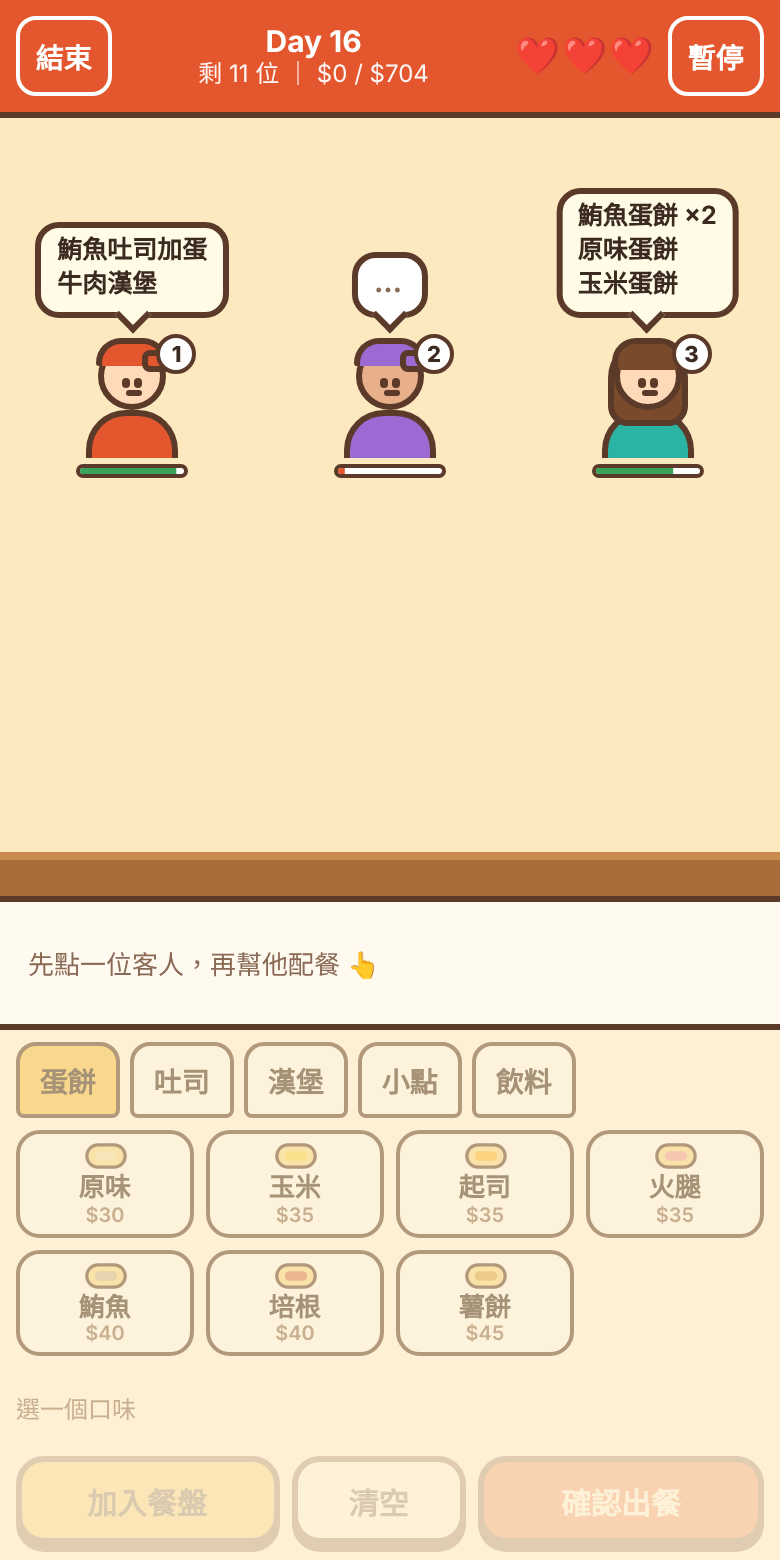
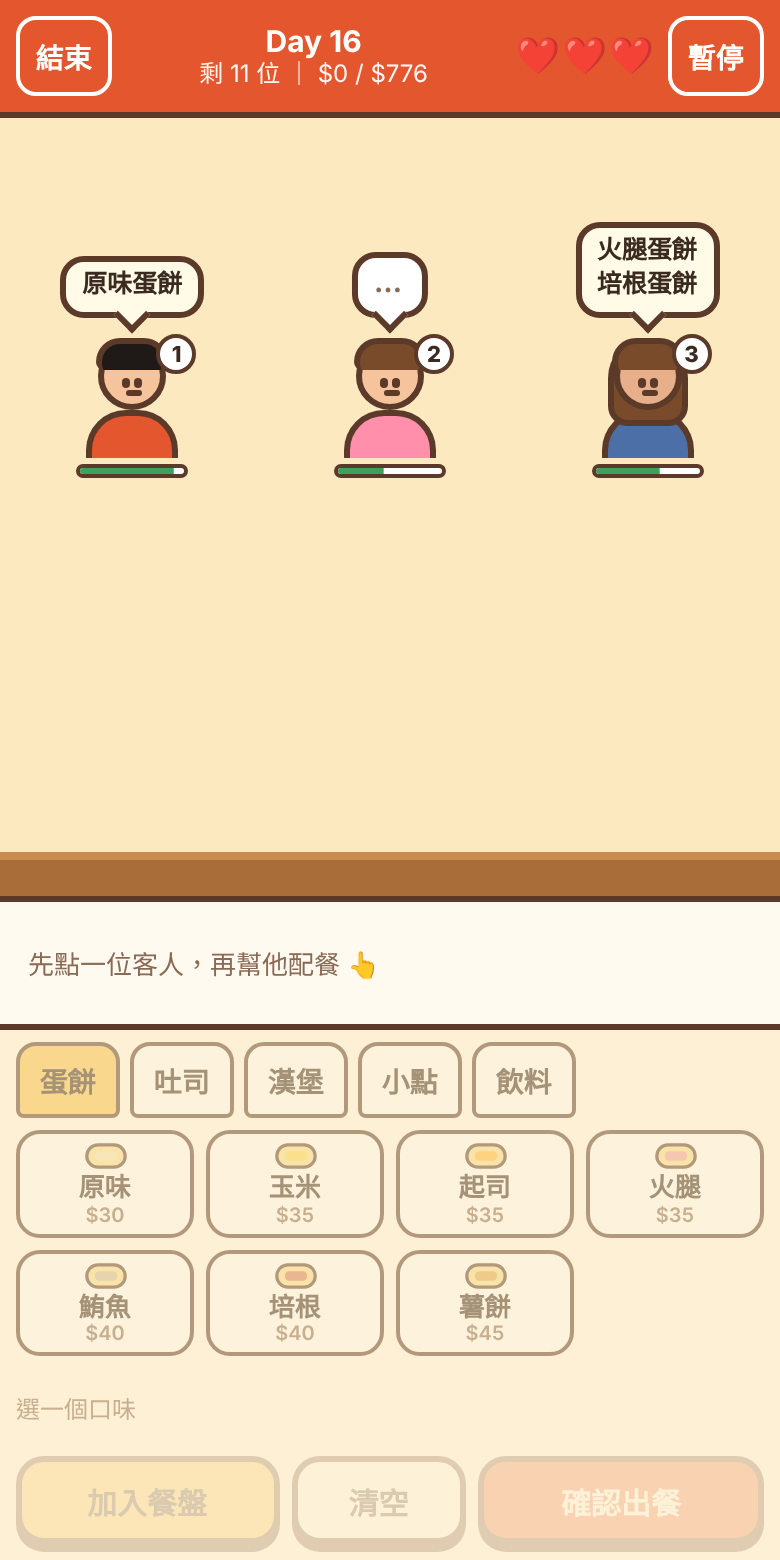
Add files via upload

diff --git a/README.md b/README.md
@@ -6,38 +6,90 @@
 
 <!-- 上傳後請把上面的網址換成你的 GitHub Pages 網址 -->
 
-玩家扮演早餐店老闆，憑記憶幫最多 5 位同時排隊的客人出餐。共 30 天，每天解鎖新菜色、難度逐步提高，第 31 天起進入無限模式。
+玩家扮演早餐店老闆。客人進門時只說一次點單，泡泡幾秒後就縮起來，老闆要憑記憶幫最多 5 位同時排隊的客人組出正確的餐點。遊戲共 30 天，每天解鎖新菜色、難度逐步提高，第 31 天起進入無限模式。
 
 ## 介面截圖
 
 <table>
   <tr>
     <td align="center"><img src="screenshots/01-title.png" width="200"><br>標題畫面</td>
-    <td align="center"><img src="screenshots/04-orders.png" width="200"><br>客人點單</td>
-    <td align="center"><img src="screenshots/05-assemble.png" width="200"><br>組餐出餐</td>
+    <td align="center"><img src="screenshots/02-select.png" width="200"><br>選擇天數</td>
+    <td align="center"><img src="screenshots/03-opening.png" width="200"><br>開場卡（今日新增）</td>
+  </tr>
+  <tr>
+    <td align="center"><img src="screenshots/04-orders.png" width="200"><br>客人點單（2 號泡泡已縮起）</td>
+    <td align="center"><img src="screenshots/05-assemble.png" width="200"><br>選客人、組餐、選飲料選項</td>
     <td align="center"><img src="screenshots/06-result.png" width="200"><br>結算畫面</td>
   </tr>
 </table>
 
 ## 怎麼玩
 
-1. 客人頭上的點單泡泡只顯示幾秒，之後縮成「…」，要靠記憶。
-2. 先點一位客人，再從下方選分類、口味、選項，加入餐盤後按「確認出餐」。
-3. 答錯扣 1 顆心；忘記了可以花 1 顆心「重看」點單。
-4. 客人等太久會離開，這單就沒錢賺。
-5. 當天營收達到總額的 80% 就過關，解鎖下一天。
+1. 客人進來時，頭上泡泡會顯示點單幾秒，之後縮成「…」，**要靠記憶**。
+2. 先點一位客人，再從下方依序選「分類 → 口味 → 選項」，按「加入餐盤」。
+3. 餐點都組好後按「確認出餐」，內容完全正確才算答對。
+4. 答錯扣 1 顆心。忘記了可以按「重看」，同樣扣 1 顆心，剩 1 顆心時不能重看。
+5. 客人等太久會自己離開，這單就沒有收入。
+6. 當天營收達到總額的 80% 就過關，並解鎖下一天和新菜色。
 
-## 規格重點
+## 規格說明
 
-- **手機直式為主**，電腦開啟時以手機大小的畫面置中顯示。
-- **菜單**：蛋餅、吐司、漢堡、鐵板麵、小點、飲料，共 30 種品項，選項有加蛋、大／中杯、冰／溫／去冰。
-- **難度**：記憶時間從 6 秒縮短到 3 秒，客人從 6 位增加到 20 位，每單最多從 1 樣增加到 5 樣。
-- **技術**：單一 `index.html`，不用任何圖片檔或外部函式庫，所有人物和食物都用 CSS 畫；進度存在瀏覽器（localStorage）。
+### 核心規則
+
+| 項目 | 規則 |
+| --- | --- |
+| 客人 | 同時最多 5 位（上排 3 位、下排 2 位），有人離開才補上；每天的客人數固定 |
+| 記憶時間 | 點單泡泡只顯示幾秒：Day 1 是 6 秒，逐日縮短到 Day 30 的 3 秒 |
+| 停留時間 | 停留秒數 = (8 + 4 × 品項數) × 節奏係數；係數從 1.0 逐步降到 0.8 |
+| 愛心 | 每天 3 顆；答錯扣 1 顆、重看扣 1 顆，等太久離開不扣；歸零就當天失敗 |
+| 營收 | 只計答對的餐點金額（早餐店不收小費） |
+| 過關 | 營收 ≥ 當天總額的 80%；未達標就重玩同一天 |
+| 星等 | 80% 一顆星、90% 兩顆星、100%（全部答對）三顆星 |
+| 結束與暫停 | 狀態列有「結束」（確認後回上一頁、不計成績）與「暫停」；切換到其他 App 會自動暫停 |
+
+### 菜單
+
+| 分類 | 品項（價格） | 選項 |
+| --- | --- | --- |
+| 蛋餅 | 原味 $30、玉米 $35、起司 $35、火腿 $35、鮪魚 $40、培根 $40、薯餅 $45 | 無 |
+| 吐司 | 火腿 $30、培根 $35、鮪魚 $35、肉鬆 $30、花生 $25、草莓 $25 | 加蛋 +$10 |
+| 漢堡 | 豬肉 $40、雞腿 $55、牛肉 $50、鮪魚 $45、卡拉雞腿 $60 | 加蛋 +$10 |
+| 鐵板麵 | 蘑菇 $55、黑胡椒 $55、茄汁 $55 | 加蛋 +$10 |
+| 小點 | 煎餃 $40、蘿蔔糕 $35、雞塊 $40、薯條 $35、薯餅 $30 | 蘿蔔糕可加蛋 |
+| 飲料 | 豆漿、紅茶 $20；米漿、奶茶 $25 | 大杯 +$5、冰／溫／去冰 |
+
+### 30 天難度安排
+
+| 天數 | 新增內容 | 難度變化 |
+| --- | --- | --- |
+| Day 1～5 | 原味蛋餅、紅茶、火腿吐司、豆漿、蘿蔔糕、奶茶、米漿、煎餃 | 客人 6～8 位，每單最多 2 樣 |
+| Day 6～12 | 蛋餅與吐司的各種口味；Day 9 開放大／中杯，Day 12 開放冰／溫／去冰 | 每單最多 3 樣，記憶時間縮短到 5 秒 |
+| Day 13～22 | 漢堡、Day 16 開放加蛋、雞塊、薯條、薯餅、鐵板麵（Day 22 全菜單到齊） | 每單最多 5 樣，客人耐心變短 |
+| Day 23～30 | 不再加新品 | 客人更多、來得更快、記憶時間更短；Day 30 是 20 位客人的「期末大魔王日」 |
+| Day 31～ | 無限模式 | 全菜單隨機出題，客人每天多 1 位 |
+
+每天新解鎖的品項和選項至少會出現 2 次，讓玩家有機會練習。
+
+### 技術
+
+- 單一 `index.html`，HTML、CSS、JavaScript 寫在同一個檔案，不用任何圖片檔或外部函式庫。
+- 客人、食物圖示、招牌都是用 CSS 畫的插畫風。
+- 手機直式為主；電腦開啟時以手機大小的畫面置中顯示。
+- 音效用 Web Audio API 即時產生，可以關閉；Android 手機答錯時會震動。
+- 進度存在瀏覽器的 localStorage，關掉網頁再開，已解鎖的天數和星等都還在。
+- 網址加上 `?dev=1` 可以解鎖全部天數，方便測試。
 
 ## AI 迭代紀錄
 
-| 版本 | 修改內容 |
-| --- | --- |
-| v0.1～v0.6 | 和 AI 討論規格：選定題目、改成 5 位客人同時排隊、加入記憶時間、停留時間改用公式、移除小費與 Combo、加上結束鍵 |
-| v1.0 | 第一版實作；實測後修正泡泡位置、新品出題機率、矮螢幕版面 |
-| 後續測試 | 試過兩種電腦版顯示方式（縮小插圖並允許捲動、整個畫面等比例縮放），比較後決定保留手機體驗最好的 v1.0 |
+這個作品從想法、規格到實作，都是和 AI（Claude）反覆討論、修改完成的。
+
+| 版本 | 發現的問題／想法 | 修改 |
+| --- | --- | --- |
+| v0.1 | 料理模擬類的小遊戲大多已經有人做過 | 改從「台灣日常小場景」找題目，選定早餐店記憶挑戰，以手機版為主 |
+| v0.2 | AI 的初版一次只有一位客人 | 改成最多 5 位同時排隊、老闆自己決定先出誰的餐；加入 3 顆心、30 天＋無限模式 |
+| v0.3 | 點單如果一直顯示，就不是記憶挑戰了 | 泡泡只顯示幾秒就縮起，而且越後面的天數越短 |
+| v0.4 | 客人只待 12 秒，點 5 樣餐會來不及；重看扣 2 顆心，跟只有 3 顆心衝突 | 停留時間改用公式；重看改扣 1 顆心；等太久不扣心 |
+| v0.5 | 「火腿蛋吐司加蛋」語意重複 | 改成火腿、培根吐司；蛋餅不能加蛋 |
+| v0.6 | 早餐店不會有小費；遊戲中沒有離開的方法 | 移除小費與 Combo；狀態列加上「結束」鍵 |
+| v1.0 | 第一版實測：泡泡離客人太遠、有幾天新品偶爾只出現 1 次、矮螢幕泡泡被擋住 | 泡泡改貼在客人頭上、修正出題邏輯、矮螢幕壓縮版面 |
+| 後續測試 | 試過兩種電腦版顯示方式（縮小插圖並允許捲動、整個畫面等比例縮放） | 比較後決定保留手機體驗最好的 v1.0 |
